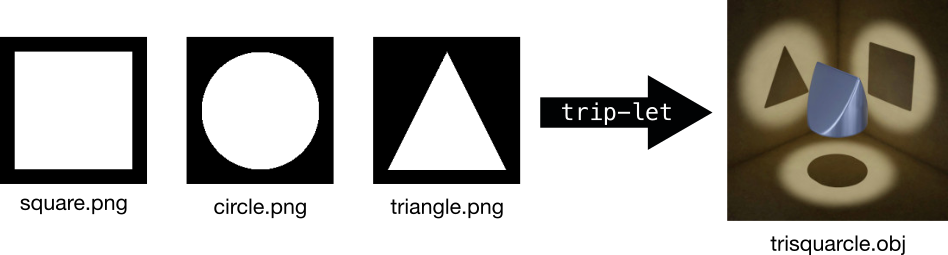
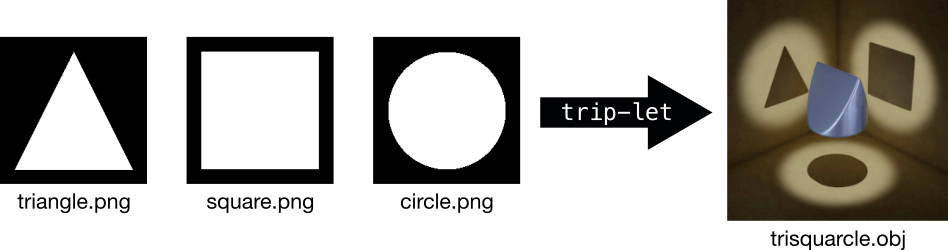
Fix order of figures in trisquarcle example

diff --git a/README.md b/README.md
@@ -59,3 +59,5 @@ Still many things to polish:
 * Add help strings for the arguments of argparse
 
 * Write a brief manual
+
+* A GUI?
